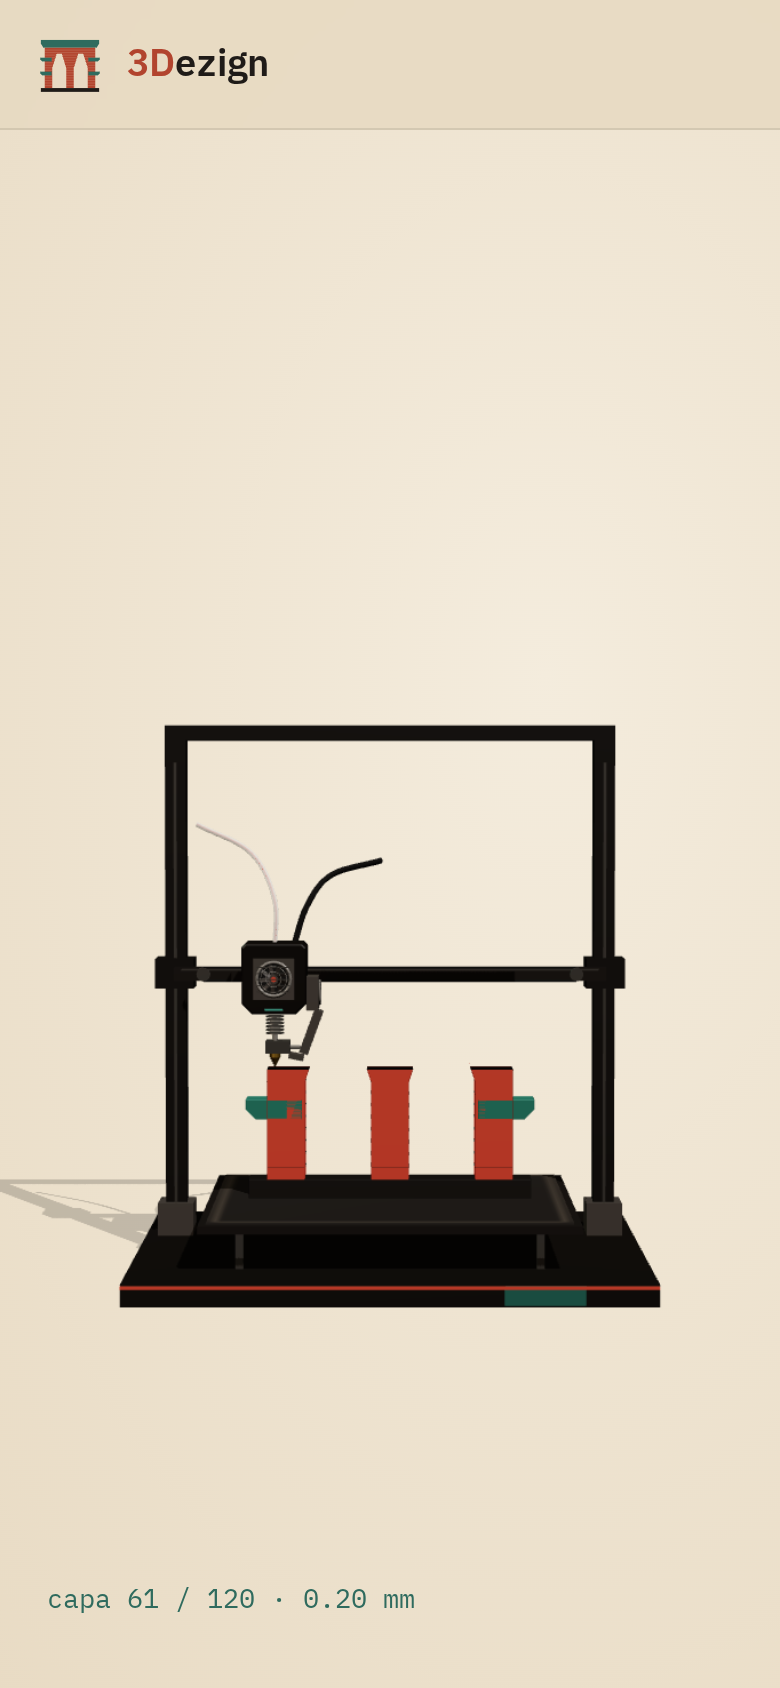
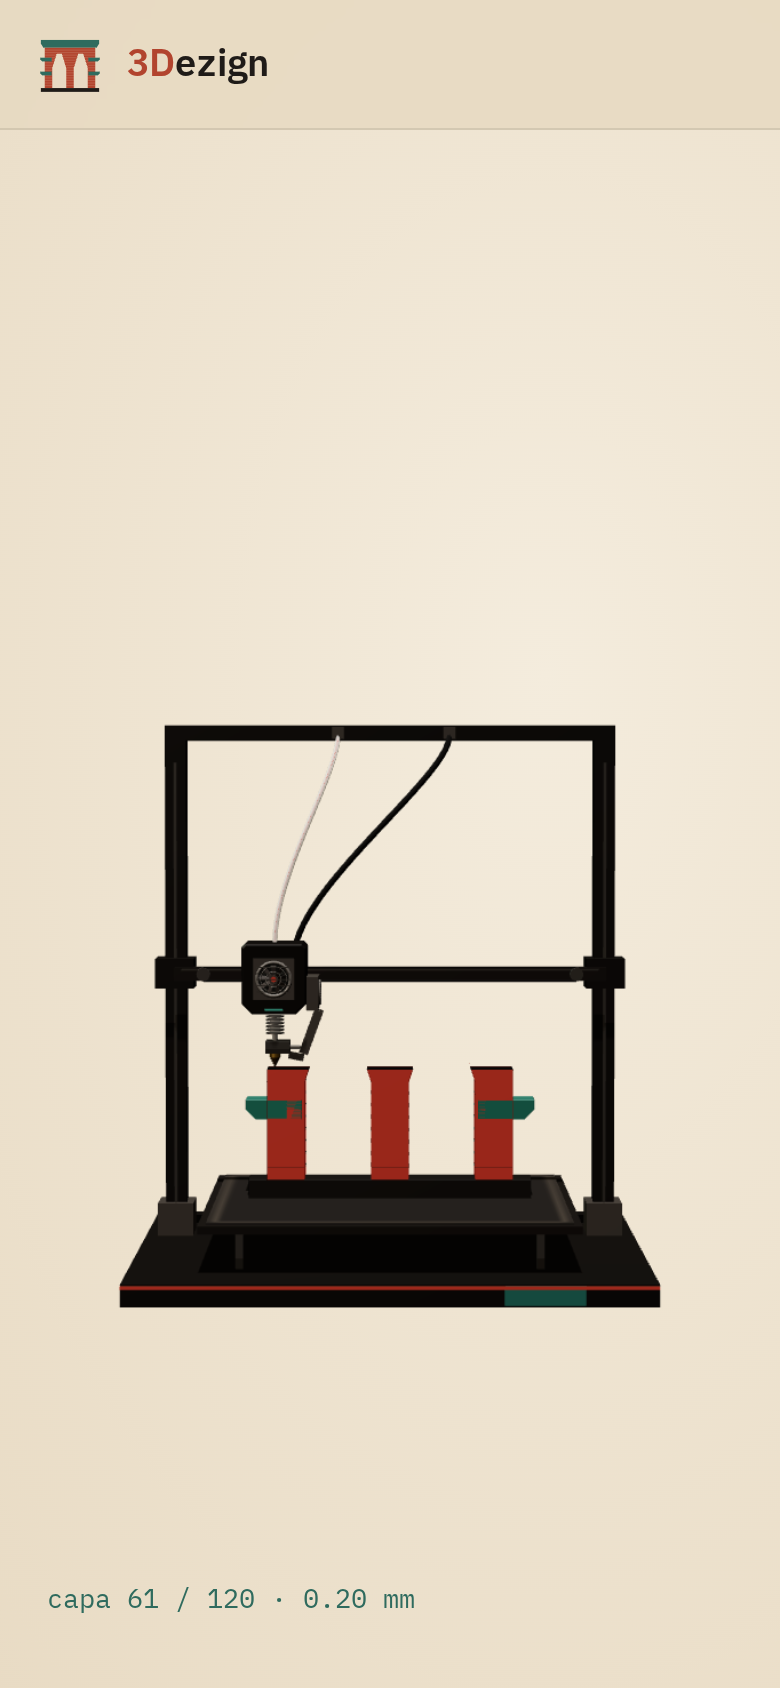
PTFE y cable dinámicos anclados al travesaño; quita sombra/línea gris del suelo

diff --git a/src/scene.js b/src/scene.js
@@ -15,7 +15,7 @@ export function createScene(canvas, { reduced }) {
   const camera = new THREE.PerspectiveCamera(32, 1, 0.1, 100);
 
   scene.add(new THREE.HemisphereLight(0xfff5e6, 0x3a2e28, 1.4));
-  const key = new THREE.DirectionalLight(0xffffff, 2.4); key.position.set(4, 8, 6); key.castShadow = true; key.shadow.mapSize.set(2048, 2048); Object.assign(key.shadow.camera, { left: -5, right: 5, top: 5, bottom: -5 }); key.shadow.bias = -0.0005; scene.add(key);
+  const key = new THREE.DirectionalLight(0xffffff, 2.4); key.position.set(0, 10, 3); key.castShadow = true; key.shadow.mapSize.set(2048, 2048); Object.assign(key.shadow.camera, { left: -5, right: 5, top: 5, bottom: -5 }); key.shadow.bias = -0.0005; scene.add(key);
   const fill = new THREE.DirectionalLight(0xfff0e0, 0.8); fill.position.set(-4, 3, 5); scene.add(fill);
   const rim = new THREE.DirectionalLight(new THREE.Color(C.jade), 1.2); rim.position.set(-5, 3, -4); scene.add(rim);
 
@@ -98,12 +98,26 @@ export function createScene(canvas, { reduced }) {
   // carro sobre el riel
   box(0.34, 0.24, 0.05, alu, 0, 0.6, -0.2, head);
   for (const sx of [-1, 1]) for (const sy of [-1, 1]) { const wh = cyl(0.028, 0.03, blackPl, head, 16); wh.rotation.x = Math.PI / 2; wh.position.set(sx * 0.12, 0.6 + sy * 0.09, -0.235); }
-  // tubo PTFE y cable con curva
-  const ptfe = new THREE.Mesh(new THREE.TubeGeometry(new THREE.CatmullRomCurve3([new THREE.Vector3(0, 0.8, 0), new THREE.Vector3(0, 1.1, 0), new THREE.Vector3(-0.15, 1.4, -0.15), new THREE.Vector3(-0.55, 1.6, -0.45)]), 40, 0.016, 10),
-    new THREE.MeshPhysicalMaterial({ color: 0xf4f1ea, roughness: 0.25, transmission: 0.2, transparent: true, opacity: 0.9 })); ptfe.castShadow = true; head.add(ptfe);
-  const fil = new THREE.Mesh(new THREE.TubeGeometry(ptfe.geometry.parameters.path, 40, 0.007, 6), new THREE.MeshStandardMaterial({ color: C.terracota })); head.add(fil);
+  // tubo PTFE y cable: curva regenerada cada frame desde el cabezal hasta clips en el travesaño
   box(0.06, 0.06, 0.06, grey, 0, 0.8, 0, head); // acople
-  const cable = new THREE.Mesh(new THREE.TubeGeometry(new THREE.CatmullRomCurve3([new THREE.Vector3(0.12, 0.8, -0.1), new THREE.Vector3(0.2, 1.05, -0.2), new THREE.Vector3(0.35, 1.25, -0.4), new THREE.Vector3(0.7, 1.35, -0.6)]), 40, 0.02, 8), blackPl); cable.castShadow = true; head.add(cable);
+  const barY = 0.14 + PH + 0.05, clipZ = PZ + 0.09;
+  const anchors = { ptfe: new THREE.Vector3(-0.35, barY - 0.02, clipZ), cable: new THREE.Vector3(0.4, barY - 0.02, clipZ) };
+  for (const k in anchors) box(0.08, 0.08, 0.05, grey, anchors[k].x, barY, PZ + 0.085);
+  const ptfeM = new THREE.MeshPhysicalMaterial({ color: 0xf4f1ea, roughness: 0.25, transparent: true, opacity: 0.85 });
+  const tubes = [
+    { off: new THREE.Vector3(0, 0.83, 0), a: anchors.ptfe, r: 0.016, m: ptfeM },
+    { off: new THREE.Vector3(0, 0.83, 0), a: anchors.ptfe, r: 0.007, m: new THREE.MeshStandardMaterial({ color: C.terracota }) },
+    { off: new THREE.Vector3(0.12, 0.72, -0.15), a: anchors.cable, r: 0.02, m: blackPl },
+  ].map(t => { const mesh = new THREE.Mesh(new THREE.BufferGeometry(), t.m); mesh.castShadow = true; printer.add(mesh); return { ...t, mesh }; });
+  const _p0 = new THREE.Vector3();
+  function updateTubes() {
+    for (const t of tubes) {
+      _p0.copy(head.position).add(t.off);
+      const h = THREE.MathUtils.clamp((t.a.y - _p0.y) * 0.5, 0.04, 0.45);
+      const curve = new THREE.CubicBezierCurve3(_p0.clone(), _p0.clone().add(new THREE.Vector3(0, h, 0)), t.a.clone().add(new THREE.Vector3(0, -Math.max(0.12, h * 0.6), 0.25)), t.a);
+      t.mesh.geometry.dispose(); t.mesh.geometry = new THREE.TubeGeometry(curve, 32, t.r, 8);
+    }
+  }
   const GANTRY_OFF = 0.6; // altura del riel respecto a la punta
   // --- Arco extruido del isotipo: un mesh por path con el fill del propio SVG ---
   const data = new SVGLoader().parse(svgText);
@@ -127,7 +141,7 @@ export function createScene(canvas, { reduced }) {
   const hot = new THREE.Mesh(new THREE.PlaneGeometry(archW * 2.2, 1), new THREE.MeshBasicMaterial({ color: 0xffb08a, transparent: true, opacity: 0, depthWrite: false }));
   hot.rotation.x = -Math.PI / 2; printer.add(hot);
   const groundY = 0;
-  const floor = new THREE.Mesh(new THREE.CircleGeometry(6, 48), new THREE.ShadowMaterial({ opacity: 0.18 })); floor.rotation.x = -Math.PI / 2; floor.receiveShadow = true; scene.add(floor);
+  const floor = new THREE.Mesh(new THREE.CircleGeometry(2.4, 48), new THREE.ShadowMaterial({ opacity: 0.16 })); floor.rotation.x = -Math.PI / 2; floor.receiveShadow = true; scene.add(floor);
 
   // muestreo de contorno por altura: intervalos X ocupados a cada altura (aprox. con raycast 2D sobre shapes)
   const pts = shapes.map(sh => ({ o: sh.getPoints(8), h: sh.holes.map(h => h.getPoints(8)) }));
@@ -167,6 +181,7 @@ export function createScene(canvas, { reduced }) {
     const targetY = done ? archGroup.position.y + archH + 0.35 : archGroup.position.y + hNow + 0.005;
     head.position.y += (targetY - head.position.y) * Math.min(1, dt * 12);
     gantry.position.y = head.position.y + GANTRY_OFF;
+    updateTubes();
     if (!reduced) { blades.rotation.z += dt * 18; sblades.rotation.z += dt * (printing ? 25 : 4); }
     hot.position.set(0, archGroup.position.y + hNow, 0); hot.material.opacity = printing ? 0.35 : 0; hot.visible = false;
     // al final gira suave
